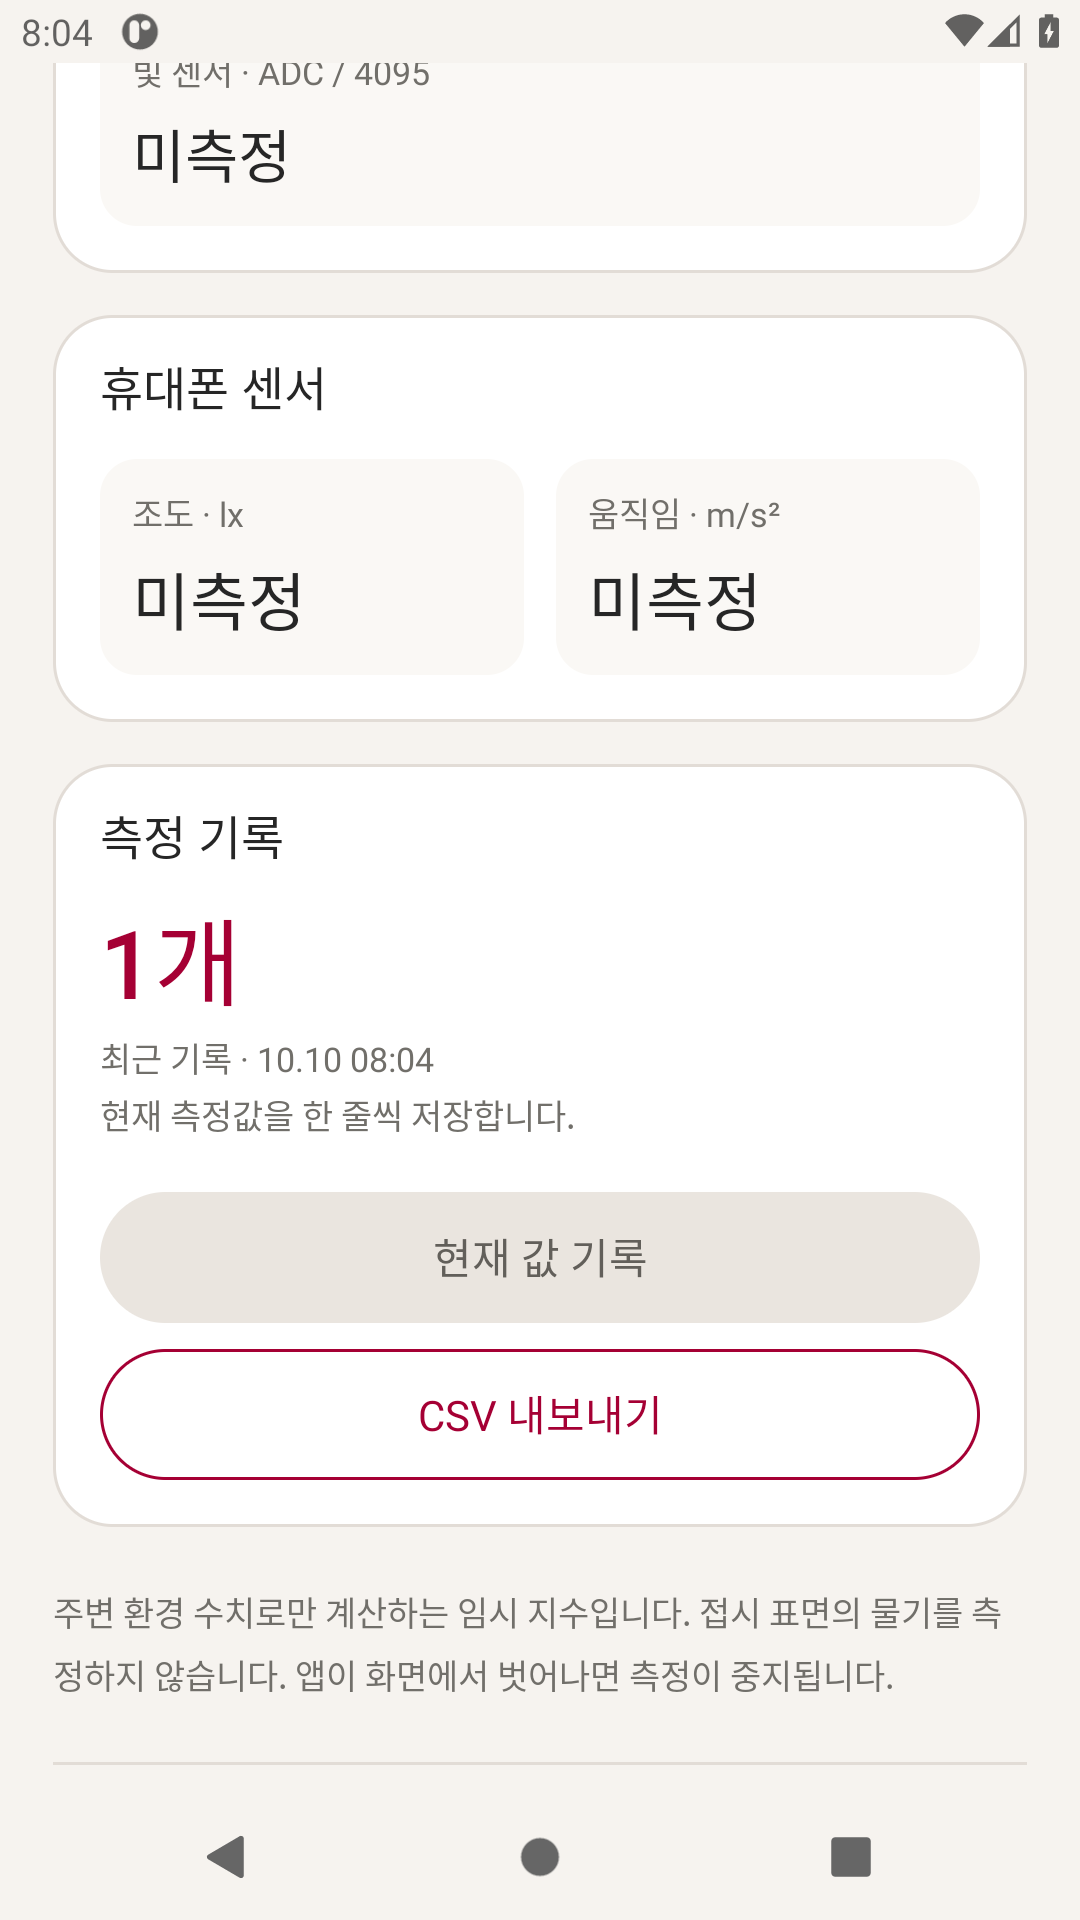
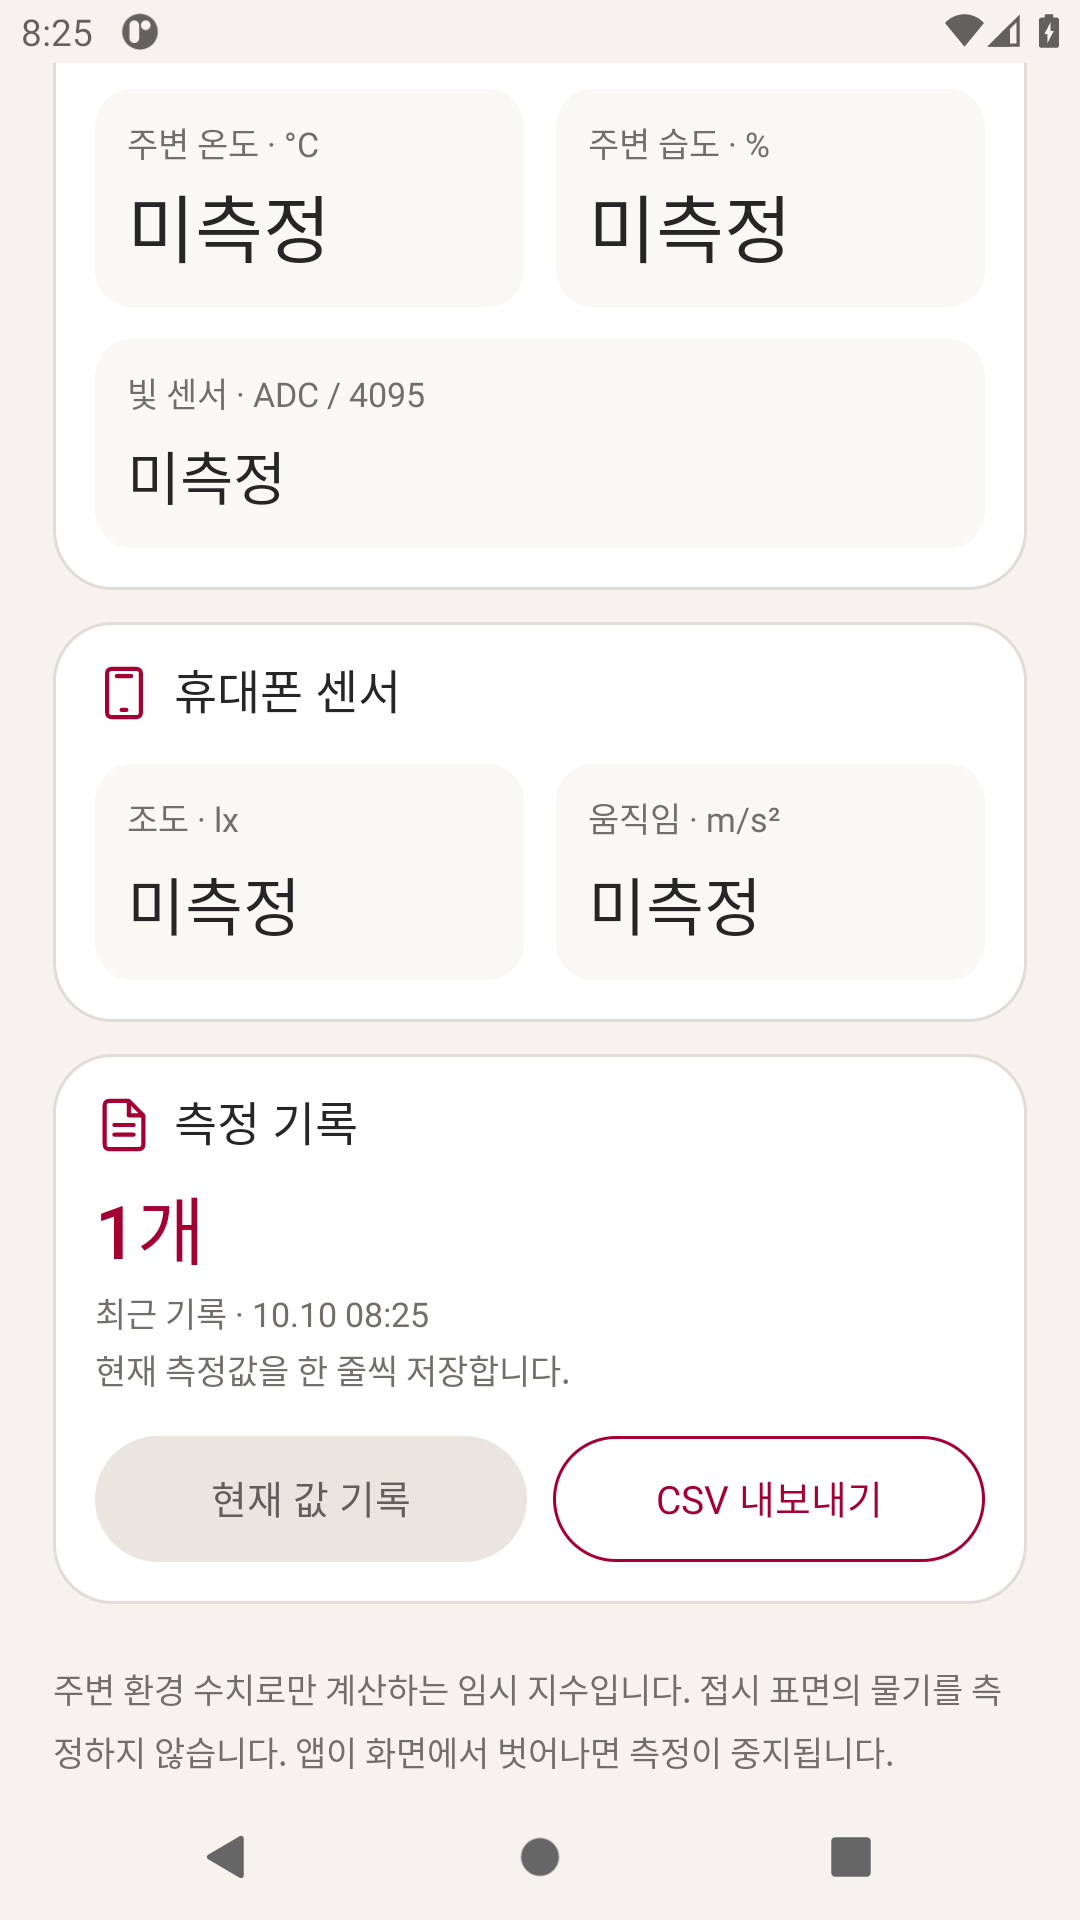
docs: align compact visuals and sample download list

diff --git a/README.md b/README.md
@@ -8,21 +8,21 @@
 
 <img src="docs/images/app-icon.png" width="88" alt="붉은 바탕의 접시와 물방울 앱 아이콘">
 
-v0.3.0은 LG Red와 따뜻한 회색을 참고한 화면, 자체 접시·물방울 아이콘, 연결 상태 배지와 센서별 카드를 사용합니다. [화면 디자인 기준](docs/DESIGN_NOTES.md).
+v0.3.1은 LG Red와 따뜻한 회색을 참고한 화면, 접시·물방울 아이콘, 연결 상태 배지와 센서별 카드를 사용합니다. 측정 버튼을 짧게 배치하고 기록·내보내기 버튼을 한 줄로 정리했습니다. [화면 디자인 기준](docs/DESIGN_NOTES.md).
 
 ![접시 건조대의 온습도·빛 센서, ESP32 보드와 새 Android 화면 구성 개념도](docs/images/dishdry-sensor-sketch.png)
 
-*접시 건조대 옆 센서와 v0.3.0 앱을 연결하는 구성 목업. 화면 수치는 예시 데이터이며, 실물 장치 실행 사진이 아닙니다.*
+*접시 건조대 옆 센서와 v0.3.1 앱을 연결하는 구성 목업. 화면 수치는 예시 데이터이며, 실물 장치 실행 사진이 아닙니다.*
 
 ## 앱 실제 실행 화면
 
-v0.3.0 APK를 Android API 30 에뮬레이터에서 실행한 원본 캡처입니다. 자체 앱 아이콘, 붉은 버튼과 지수, 따뜻한 회색 바탕, 상태 배지와 흰색 센서 카드를 적용했습니다. ESP32는 연결하지 않았고, 기록 1개는 에뮬레이터의 가상 휴대폰 센서 값으로 저장한 것입니다.
+v0.3.1 APK를 Android API 30 에뮬레이터에서 실행한 원본 캡처입니다. 접시·물방울 심볼, 붉은 버튼과 지수, 따뜻한 회색 바탕, 작은 동작 버튼과 센서 카드를 적용했습니다. ESP32는 연결하지 않았고, 기록 1개는 에뮬레이터의 가상 휴대폰 센서 값으로 저장한 것입니다.
 
 | 연결 대기 | 현재 값 기록 | 시스템 CSV 저장 |
 | --- | --- | --- |
 | <img src="docs/images/screenshots/01-overview.png" width="230" alt="실제 앱 연결 대기 화면"> | <img src="docs/images/screenshots/03-record-saved.png" width="230" alt="실제 앱에서 가상 휴대폰 센서 값 한 건을 기록한 화면"> | <img src="docs/images/screenshots/04-system-export.png" width="230" alt="Android 시스템 파일 선택기의 CSV 저장 화면"> |
 
-앱 실행, 현재 값 기록, CSV 실제 파일 내용 일치, 저장·취소 후 앱 복귀, 재시작 후 기록 유지, 320dp 너비·130% 글자 크기를 확인했습니다. [전체 실행 캡처 9장](docs/images/screenshots), [실행 결과 원문](docs/logs/2026-10-10-v0.3.0-android-emulator.txt), [실행 일지](docs/RUN_LOG.md).
+앱 실행, 현재 값 기록, CSV 실제 파일 내용 일치, 저장·취소 후 앱 복귀, 재시작 후 기록 유지, 320dp 너비·130% 글자 크기를 확인했습니다. [전체 실행 캡처 9장](docs/images/screenshots), [실행 결과 원문](docs/logs/2026-10-10-v0.3.1-android-emulator.txt), [실행 일지](docs/RUN_LOG.md).
 
 현재 화면은 [LG 공식 디자인 시스템](https://www.lg.com/global/our-identity/design-system/)의 둥근 형태와 [공식 색상 가이드](https://www.lg.com/us/wonderbox/Wonderbox-GuidelinesSpecs.pdf)를 참고해 Android 기본 글꼴과 위젯에 맞게 적용했습니다. 이전 [Apple 웹디자인 분석 DESIGN.md](DESIGN.md)는 참고 기록으로 보관합니다. [적용 기준과 출처](docs/DESIGN_NOTES.md).
 
@@ -96,6 +96,8 @@ flowchart TD
 ![센서 Wi-Fi 연결, 측정값 확인, 현재 값 기록, CSV 저장으로 이어지는 4컷 사용 시나리오](docs/images/user-scenario.png)
 
 *새 화면 디자인으로 맞춘 4컷 개념 시나리오. 화면 수치와 기록 3개는 이해를 돕는 예시 데이터이며, 실물 센서 실행 기록이 아닙니다.*
+
+저장 목업의 `dish-dry-01.csv`·`dish-dry-02.csv`·`dish-dry-03.csv`는 파일 목록을 설명하는 예시입니다. 저장 화면의 로고와 붉은 버튼은 스타일을 통일한 목업 디자인이며, 실제 시스템 파일 선택기는 기기의 디자인을 따릅니다.
 
 ## 화면 와이어프레임과 사용 흐름
 

diff --git a/docs/DESIGN_NOTES.md b/docs/DESIGN_NOTES.md
@@ -1,4 +1,4 @@
-# 화면 디자인 기준 · v0.3.0
+# 화면 디자인 기준 · v0.3.1
 
 LG AX · 키친에서 치킨먹기 / 황대겸
 
@@ -17,9 +17,9 @@ v0.3.0은 [LG 공식 디자인 시스템](https://www.lg.com/global/our-identity
 | 동작 색상 | LG Red `#A50034` 시작·기록 버튼, 지수와 내보내기 테두리 |
 | 강조 | Active Red `#FD312E` 진행 표시, 연한 붉은 상태 배지 |
 | 카드 | 22dp 둥근 모서리, 얇은 테두리와 센서별 안쪽 표면 |
-| 버튼 | 50dp 이상 터치 영역, 둥근 캡슐, 누름·초점·비활성 상태 |
-| 여백 | 화면 20dp, 카드 18dp, 센서 칸 12dp, 카드 간격 16dp |
-| 글자 계층 | 제목 28sp, 지수 64sp, 센서값 24~32sp, 설명 13~14sp |
+| 버튼 | 48dp 이상 높이, 짧은 측정 버튼, 가로 기록·내보내기 버튼, 글자는 12~15sp 안에서 한 줄로 맞춤 |
+| 여백 | 화면 20dp, 카드 16dp, 센서 칸 12dp, 카드 간격 12dp |
+| 글자 계층 | 제목 28sp, 지수 52sp, 센서값 24~28sp, 기록 개수 28sp, 설명 13~14sp |
 | 앱 아이콘 | 적응형 아이콘, 둥근 마스크와 Android 13 단색 아이콘 지원 |
 
 큰 지수 아래에 연결·센서·기록을 세로로 배치한다. 상단에 자체 아이콘과 짧은 제품 설명을 표시하고, 팀명과 작성자는 하단에 둔다. 연결 상태를 짧은 배지와 상세 안내로 보여 준다. 주소 입력칸에는 화면에 계속 보이는 레이블과 예시 주소를 연결한다. 글자 확대 때 내용이 늘어나도록 버튼 높이와 카드 높이는 고정하지 않는다.
@@ -27,6 +27,8 @@ v0.3.0은 [LG 공식 디자인 시스템](https://www.lg.com/global/our-identity
 글꼴은 Android 기본 sans-serif를 사용한다. 지수나 센서값은 유효한 측정값으로만 표시하고, 실제 값이 없으면 대시 또는 미측정으로 표시한다.
 
 README의 실행 화면은 APK 원본 캡처다. 구성 목업·시나리오·와이어프레임은 개념 설명용이며, ‘예시 데이터’라고 표시한 가상 수치를 사용한다. 온도 25°C, 습도 50%, 빛 ADC 1000과 임시 지수 57을 일관되게 맞춘다. 휴대폰 조도 320 lx, 움직임 0.12 m/s², 기록 3개와 시각도 설명용 예시다. 앱 화면과 실제 실행 로그에는 예시 수치를 넣지 않는다.
+
+와이어프레임의 네 단계 모두 공통 로고와 붉은 버튼을 사용한다. 저장 목업에는 CSV 예시 파일 3개와 문서 아이콘을 넣는다. 실제 Android 시스템 파일 선택기의 테마나 파일 목록을 앱이 바꾼 것으로 표시하지 않는다. 실제 앱에는 접시·휴대폰·파일 아이콘으로 지수와 각 카드의 역할을 구분한다.
 
 ## 코드별 책임
 

diff --git a/docs/SPEC.md b/docs/SPEC.md
@@ -1,4 +1,4 @@
-# 접시 건조 센서 앱 · 간단 명세 v0.3.0
+# 접시 건조 센서 앱 · 간단 명세 v0.3.1
 
 LG AX · 키친에서 치킨먹기
 
@@ -35,6 +35,8 @@ Android 8.0 이상을 기준으로 한다. ESP32-C3 등 다른 보드는 핀 배
 측정 중에는 주소 입력을 잠근다. 파일 선택기를 포함해 앱 화면을 벗어나면 측정을 중지한다. 돌아오면 다시 시작 버튼을 눌러야 한다.
 
 화면은 지수 → 연결 → 외부 센서 → 휴대폰 센서 → 기록 순서다. 따뜻한 회색 바탕과 흰색 카드, 붉은 캡슐 버튼을 사용한다. 접시·물방울 자체 심볼을 적응형 앱 아이콘과 상단에 적용했다. 센서값은 각각의 칸으로 구분하고 주소 입력 레이블과 예시 URL을 항상 보여 준다. [디자인 기준과 파일별 책임](DESIGN_NOTES.md)에 출처와 Android 적용 내용을 적었다.
+
+측정 버튼은 글자에 맞춘 폭으로, 기록·내보내기 버튼은 한 줄에 나란히 배치한다. 버튼의 최소 높이는 48dp이며 버튼 글자는 12~15sp 범위에서 한 줄로 맞춘다. 지수와 건조대 주변에는 접시·물방울 심볼을, 휴대폰 센서와 기록에는 각각 휴대폰·문서 아이콘을 표시한다.
 
 ## 센서 연결과 통신
 

diff --git a/docs/TODO.md b/docs/TODO.md
@@ -23,6 +23,8 @@ LG AX · 키친에서 치킨먹기 / 황대겸
 - [x] 구성 그림·시나리오·와이어프레임을 새 화면으로 교체
 - [x] 구성 목업·시나리오·와이어프레임에 일관된 예시 수치와 예시 데이터 표시
 - [x] 접시·물방울 앱 아이콘과 LG 색상 기반 화면 적용
+- [x] 작은 측정 버튼·가로 기록 버튼·접시/휴대폰/문서 아이콘 적용
+- [x] 네 단계 와이어프레임의 로고·붉은 버튼과 예시 CSV 파일 목록 통일
 
 초기 앱과 펌웨어의 빌드 결과: [GitHub Actions](https://github.com/unknownamed/lgax-kitchen-sensor-android/actions/runs/37986890214). 위 체크는 코드 구현과 빌드 기준이다. 실제 센서 연결과 실사용 검증은 아래에 남겨 둔다.
 
